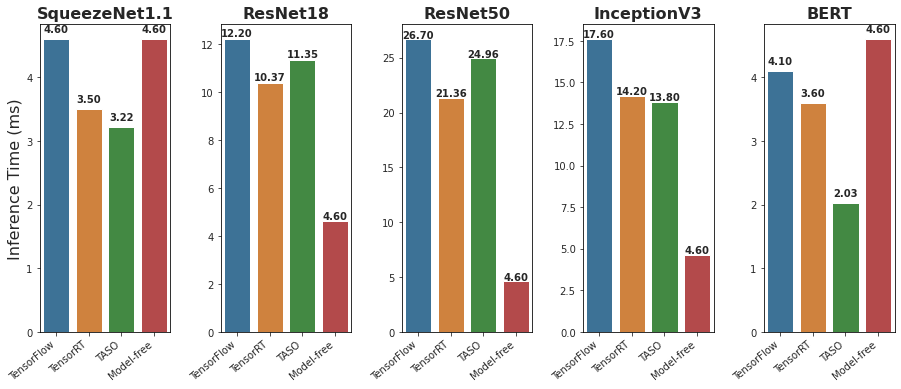
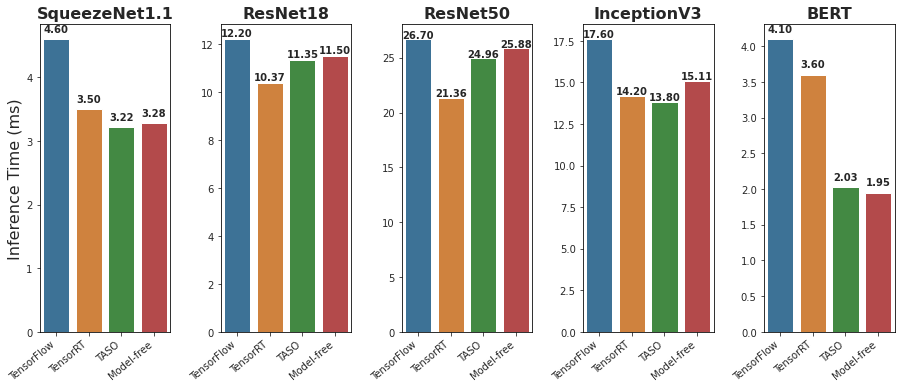
Update

diff --git a/sections/5evaluation/eval.tex b/sections/5evaluation/eval.tex
@@ -51,6 +51,15 @@ Figure \ref{fig:eval:baseline-runtimes} shows the runtime of each optimised grap
 \subsection{Model-Free Agent}
 \label{sec:eval:subsec:mfagent}
 
+
+
+\begin{figure}[ht]
+  \centering
+  %\includegraphics[width=1\columnwidth]{sections/5evaluation/images/}
+  \caption[Epoch reward for model-free agent produced by real environment]{Plot}
+  \label{fig:eval:mf-agent-reward}
+\end{figure}
+
 \subsection{Model-based Agent}
 \label{sec:eval:subsec:mbagent}
 
@@ -58,7 +67,7 @@ In this section we first present the results for training an agent inside a worl
 
 \begin{figure}[ht]
   \centering
-  \includegraphics[width=1\columnwidth]{sections/5evaluation/images/runtimes_mb.png}
+  \includegraphics[width=1\columnwidth]{sections/5evaluation/images/runtimes_all.png}
   \caption[Runtime of optimised graphs using model-based RL]{Plot}
   \label{fig:eval:world-model-runtimes}
 \end{figure}
@@ -67,7 +76,9 @@ Figure \ref{fig:eval:world-model-runtimes} shows the runtime of the optimised gr
 
 Firstly, we note that training the agents on convolutional networks, especially SqueezeNet1.1 and InceptionV3, the model-based agent failed to outperform TASO, we still decreased the runtime compared to the baseline graph produced by TensorFlow Grapper. Importantly, we observe that the model-based agent outperformed all baseline approaches on the BERT transformer network; we improved the runtime by 74\% and 7.6\% compared to TensorFlow and TASO respectively. Figure [TODO] shows the transformations applied by the model-based agent on the test graphs and compared to TASO, we only apply a single transformation over 20 times---compared to TASO which uses four distinct transformations to perform its optimisation. [TODO - describe the type of transformation applied to better compare]
 
-Compared to the strictly model-free agent---trained in the real environment---our model-based agent achieved a similar level of performance in the majority of the tested graphs. The model-free agent was trained for 2000 epochs and, by extension, over 4,000,000 interactions with the real environment. Comparatively, the model-based agent performed approximately 1,000,000 interactions with the real environment as the agent did not interact with the real environment while training inside the world model. Therefore, it is evident that the sample efficiency was improved by training inside the world model; on the other hand, the performance of the agent decreased compared to the model-free agent. In addition, stepping the world model takes, on average, 10ms whereas stepping the real environment takes on average 850ms, thus, although the performance of the model-based agent was comparatively lower, our wall-clock time for training reduced by a factor of 85x.
+Compared to the strictly model-free agent---trained in the real environment---our model-based agent achieved a similar level of performance in the majority of the tested graphs. The model-free agent was trained for 2000 epochs and, by extension, over 4,000,000 interactions with the real environment. Comparatively, the model-based agent performed approximately 1,000,000 interactions with the real environment as the agent did not interact with the real environment while training inside the world model. Therefore, it is evident that the sample efficiency was improved by training inside the world model; on the other hand, the performance of the agent decreased compared to the model-free agent.
+
+Furthermore, an important consideration when training inside a systems environment is the wall-clock time for stepping the environment to a new state based upon the agent action. We analysed the time required to perform a single step while training the ResNet50 graph. We found that stepping the world model (performing inference of the MDN-RNN) takes, on average, 10ms whereas stepping the real environment takes on average 850ms. Thus, although the performance of the model-based agent was comparatively lower, our wall-clock time for required for training was reduced by a factor of 85x.
 
 \begin{figure}[ht]
   \centering
@@ -87,16 +98,36 @@ We also show the convergence of the world model during training in figure \ref{f
 
 Figure \ref{fig:eval:world-model-pred-reward} shows the reward (decrease in estimated runtime) for each graph as predicted by the world model during training. As the tested graphs have a wide range of epoch rewards, we perform min-max normalisation to scale the plots into the same range. We observe the same results as figure \ref{fig:eval:world-model-runtimes} in which the optimisations applied to BERT during training results in the optimal graph found after 700 epochs. On the other hand, graphs such as ResNet 18/50 are less stable during training with a high epoch to epoch variation in rewards.
 
-[TODO temperature sweep]
+In comparison to the rewards received by the model-free agent during training, we note that the strictly model-free agent was more stable during training, and additionally, consistently found the optimised graph after approximately 1000 epochs. Although if we assume that both the model-free and model-based agents should achieve a similar level in performance once trained, the results in figure \ref{fig:eval:world-model-pred-reward} and [TODO] show that the agents trained in the world model are less stable with a higher reward variance. We hypothesise that there are three factors for such a discrepancy to exist:
+
+\begin{itemize}
+  \item Imperfect world-model reward predictions leading to incorrect (or invalid) actions being performed
+  \item Next state prediction by the world-model generating states that are invalid due to poor generalisation of the model
+  \item Incorrect action mask predictions that would lead to a divergence in between the world-model state and real environment state 
+\end{itemize}
+
+In an attempt to resolve the issue highlighted above, we performed further experiments we believed would aid in both reducing the variance in reward prediction as well as stabilise the world-model during training to prevent state divergence over time. Firstly, we performed a temperature sweep of the hyperparameter $\tau$ which is used in training agent inside the world model. A higher value of $\tau$ leads to softer targets for the agent to predict, thereby improving generalisation. Conversely, a lower value of $\tau$ presents hard targets and thus when $\tau = 1.0$, it is equivalent to using the unmodified mixing weight, $\pi$, of the MDN.   
+
+[TODO include results from temperature sweep]
+
+Furthermore, we also investigated splitting the prediction components of the world model such that we do not predict the next state, rewards, terminals and masks in a single model. Rather, we use a separate to perform reward prediction using the hidden state, $h_t$ from the MDN-RNN as well as the latent graph state $s_t$.
+
+[TODO include results from separate reward prediction network]
 
 \section{Discussion}
 
-% Model-free agent rewards + performance
-% Memory used by graphs after performing optimisation
-% Temperature sweep for MB agents
-% Hyperparameter search
-% Reward prediction for model-based method
-  % --> Separate reward pred network
-  % --> Mask pred network?
-% Heatmap plot of graph xfers
-% Show sample graph xfers graphically
+TODO List:
+
+- Model-free agent rewards + performance
+
+- Memory used by graphs after performing optimisation
+
+- Temperature sweep for MB agents
+
+- Hyperparameter search
+
+- Reward prediction for model-based method (Separate reward pred network)
+
+- Heatmap plot of graph xfers
+
+- Show sample graph xfers graphically

diff --git a/sections/4rlopt/modelfree.tex b/sections/4rlopt/modelfree.tex
@@ -1,11 +1,11 @@
 \section{Model-free Agent}
 
-In section \ref{sec:design:subsec:embed} we described the process for translating the computation graph, built in a machine learning framework, into an internal message passing graph neural network that can produce a latent space embedding, $z_t$, of the graph state $s_t$ at a time $t$. In our work, we used the PPO algorithm  described by Schulman et al. \cite{schulman2017proximal} as it brings three advantages, it was deliberately designed to be sample efficient, easy to implement, and stable to a wide range of values in hyperparameter selection. Its predecessors, such as TRPO \cite{schulman2017trust}, required off-policy learning using replay memory, which is often challenging to implement efficiently - especially with systems environments where rollouts are expensive to collect and store. Moreover, PPO is an on-policy algorithm that is compatible with stochastic gradient descent (SDG), meaning we can use it in combination with our graph network to train using hierarchical reinforcement learning. Algorithm \ref{algo:ppo} shows a variant of the PPO algorithm using a clipped objective, resulting in a simpler implementation compared to KL-penalty objective.
+In section \ref{sec:design:subsec:embed} we described the process for translating the computation graph, built in a machine learning framework, into an internal message passing graph neural network that can produce a latent space embedding, $z_t$, of the graph state $s_t$ at a time $t$. In our work, we used the PPO algorithm  described by Schulman et al. \cite{schulman2017proximal} as it brings three advantages, it was deliberately designed to be sample efficient, easy to implement, and stable to a wide range of values in hyperparameter selection. Its predecessors, such as TRPO \cite{schulman2017trust}, required off-policy learning using replay memory, which is often challenging to implement efficiently---especially with systems environments where rollouts are expensive to collect and store. Moreover, PPO is an on-policy algorithm that is compatible with stochastic gradient descent (SDG), meaning we can use it in combination with our graph network to train using hierarchical reinforcement learning. Algorithm \ref{algo:ppo} shows a variant of the PPO algorithm using a clipped objective, resulting in a simpler implementation compared to KL-penalty objective.
 
 % We chose to use hierarchical reinforcement learning (HRL) to structure the learning of the model-free agent by breaking down the action predictions into sub-policies. As hypothesised by Nachum et al. \cite{nachum2019does}, HRL provides a unique benefit of improved environment exploration by temporally extended exploration as high-level actions correspond to multiple environment steps, thus, the HRL agent can explore more efficiently.
 
 \input{sections/4rlopt/ppo.tex}
 
-We use short online rollouts to collect a mini-batch of observations where a single trajectory begins with the unmodified graph and we iteratively apply transformations until we reach a terminal action or no further transformations can be applied. After each rollout we estimate the runtime which is used to calculate the reward for the rollout - we described the reward calculation in section \ref{sec:prob:subsec:rwd}.
+We use short online rollouts to collect a mini-batch of observations where a single trajectory begins with the unmodified graph and we iteratively apply transformations until we reach a terminal action or no further transformations can be applied. After each rollout we estimate the runtime which is used to calculate the reward for the rollout---we describe the reward calculation in section \ref{sec:prob:subsec:rwd}.
 
 After collection of $n$ rollouts, we train the agent using the data produced during each action step which is used to update the weights of the policy and value neural networks according to the PPO algorithm. One should note that as we require two actions to be selected (\texttt{xfer\textunderscore id} and \texttt{location\textunderscore id}), it requires two sets of results to be collected during the rollout, one for each action performed. Additionally, as we perform two actions, it doubles our overhead during training as we both store and perform backpropagation for four neural networks, the policy and value networks for each action. However, as we discussed in \ref{sec:prob:subsec:sap}, the alternative approach we considered would lead to lower agent performance during training due to the larger action space.

diff --git a/sections/4rlopt/modelbased.tex b/sections/4rlopt/modelbased.tex
@@ -35,7 +35,7 @@ $$
 \text{softmax}(\mathbf{x}_i) = \frac{\exp\left( \nicefrac{x_i}{\tau} \right) }{\Sigma_j \exp \left( \nicefrac{x_j}{\tau} \right) }
 $$
 
-Typically, temperature is a real number in the range $\tau \in \left[ 0, \ldots, 1 \right)$, where a value of zero leads to completely deterministic predictions generated by the RNN, whereas larger values introduces a greater amount of stochasticity in the predictions. As larger values of $\tau$ increases the probability of samples with a lower sampling likelihood being selected it leads to a greater diversity of actions taken by the agent in the environment. Importantly, Ha et al. \cite{ha2018worldmodels} found that having a large temperature can aid in preventing the agent from discovering strategies to exploit in the world model which are not possible in the real environment due to imperfections in the model.
+Typically, temperature is a real number in the range $\tau \in \left[ 0, 1 \right)$, where a value of zero leads to completely deterministic predictions generated by the RNN, whereas larger values introduces a greater amount of stochasticity in the predictions. As larger values of $\tau$ increases the probability of samples with a lower sampling likelihood being selected it leads to a greater diversity of actions taken by the agent in the environment. Importantly, Ha et al. \cite{ha2018worldmodels} found that having a large temperature can aid in preventing the agent from discovering strategies to exploit in the world model which are not possible in the real environment due to imperfections in the model.
 
 Modifying the softmax activation function in this way is equivalent to performing knowledge distillation between two models; learnt information is transferred from a large teacher model, or ensemble model, to a smaller model which acts as a student model. In both the context of knowledge distillation and training a controller actor inside the world model, a high temperature will generate a softer targets. Specifically, in this work a higher temperature produces a softer pseudo-probability distribution for $\pi$ in the GMM. Additionally, using soft targets will provide a greater amount of information for the model to be learn by forcing the model to learn more aggressive policies, thus outputting stochastic predictions which is beneficial to encourage exploring the environments state-action space.
 
